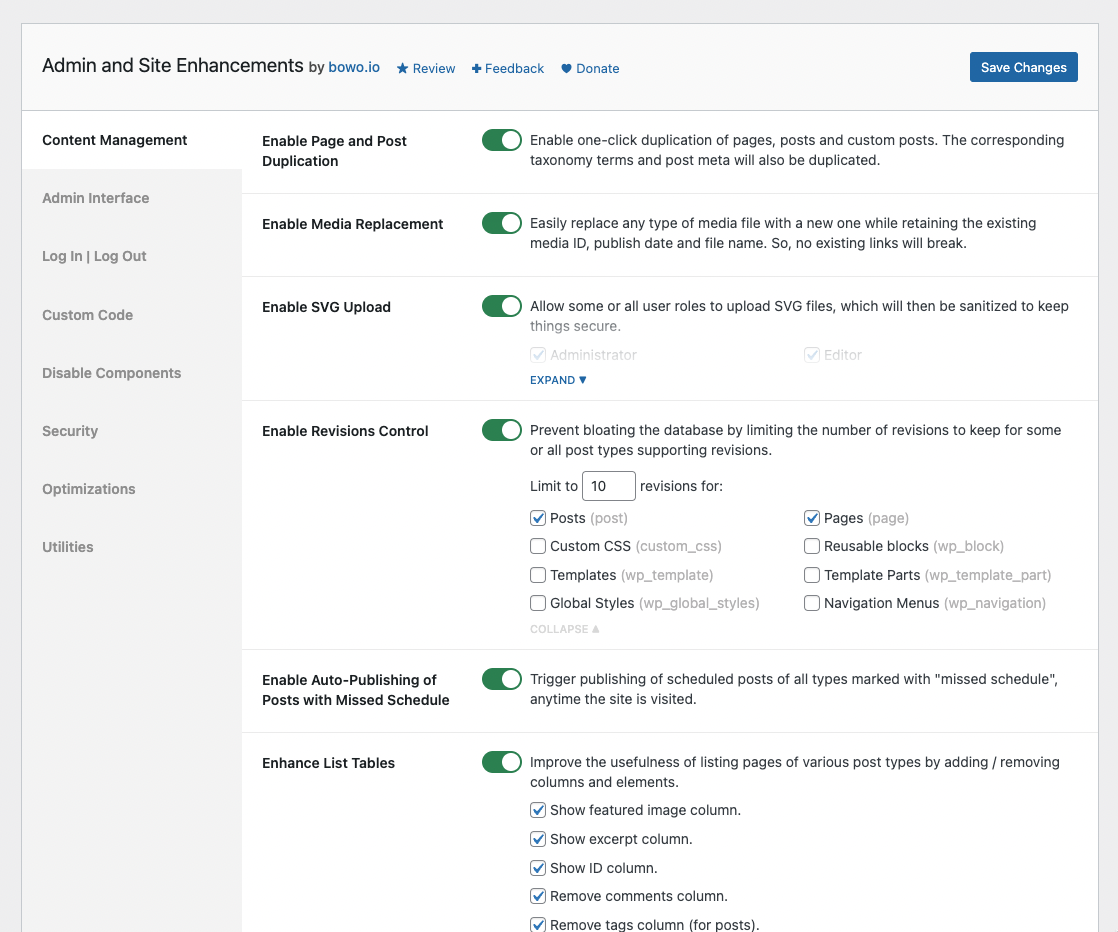
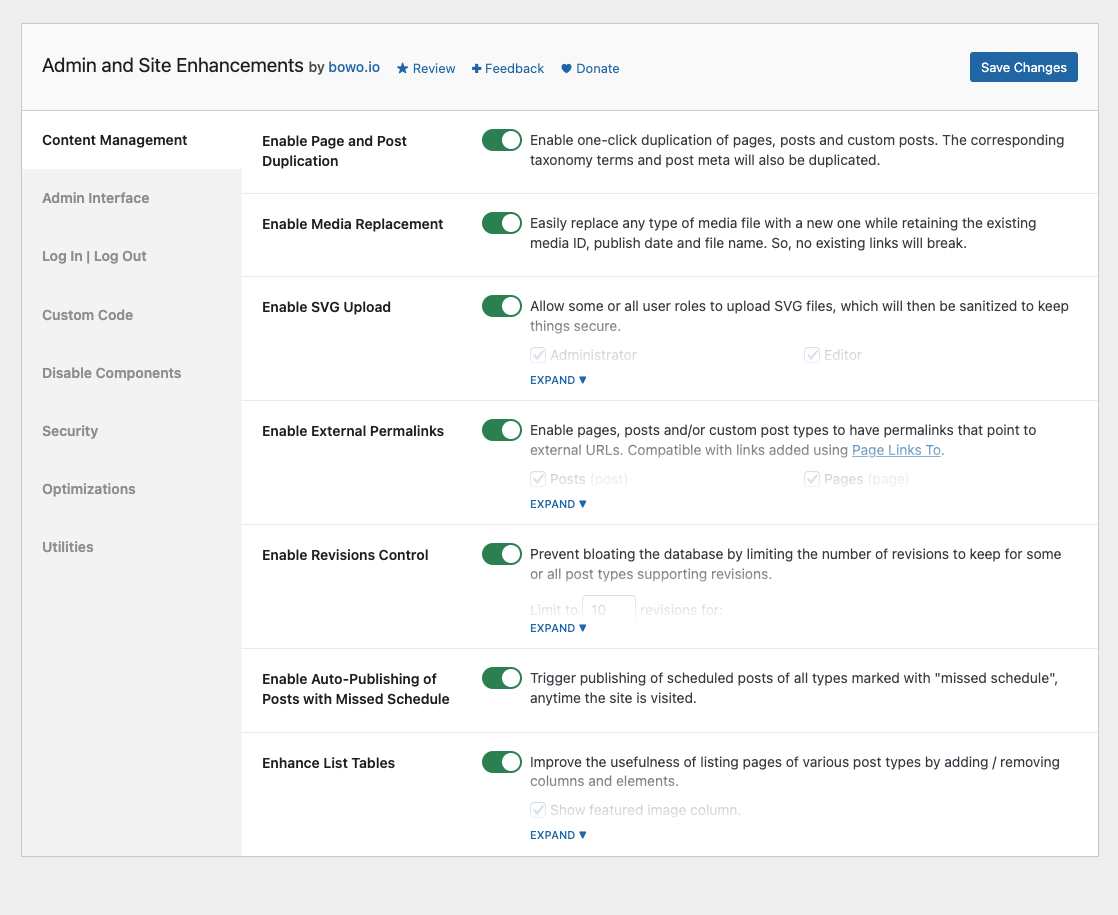
v3.9.0 release

diff --git a/admin-site-enhancements.php b/admin-site-enhancements.php
@@ -4,7 +4,7 @@
  * Plugin Name:       Admin and Site Enhancements
  * Plugin URI:        https://wordpress.org/plugins/admin-site-enhancements/
  * Description:       Easily enable enhancements and features that usually require multiple plugins.
- * Version:           3.8.0
+ * Version:           3.9.0
  * Author:            Bowo
  * Author URI:        https://bowo.io
  * License:           GPL-2.0+
@@ -18,7 +18,7 @@ if ( ! defined( 'ABSPATH' ) ) {
 	exit;
 }
 
-define( 'ASENHA_VERSION', '3.8.0' );
+define( 'ASENHA_VERSION', '3.9.0' );
 define( 'ASENHA_ID', 'asenha' );
 define( 'ASENHA_SLUG', 'admin-site-enhancements' );
 define( 'ASENHA_SLUG_U', 'admin_site_enhancements' );

diff --git a/README.md b/README.md
@@ -5,14 +5,14 @@ Donate link: https://paypal.me/qriouslad
 Tags: enhancements, tweaks, optimizations, tools  
 Requires at least: 4.6  
 Tested up to: 6.1.1  
-Stable tag: 3.8.0  
+Stable tag: 3.9.0  
 Requires PHP: 5.6  
 License: GPLv2 or later  
 License URI: http://www.gnu.org/licenses/gpl-2.0.html
 
 ![](.wordpress-org/banner-772x250.png)
 
-Duplicate page / post, replace media, hide login, hide admin notices, hide admin bar, login / logout / 404 redirect, and more in a single plugin.
+Duplicate post, replace media, admin menu editor, custom css / code, disable gutenberg, heartbeat control and more in a single plugin.
 
 ## Description
 
@@ -23,6 +23,7 @@ Admin and Site Enhancements helps you to easily enhance various admin workflows 
 * **Enable Page and Post Duplication**. Enable one-click duplication of pages, posts and custom posts. The corresponding taxonomy terms and post meta will also be duplicated.
 * **Enable Media Replacement**. Easily replace any type of media file with a new one while retaining the existing media ID, publish date and file name. So, no existing links will break.
 * **Enable SVG Upload**. Allow some or all user roles to upload SVG files, which will then be sanitized to keep things secure.
+* **Enable External Permalinks**. Enable pages, posts and/or custom post types to have permalinks that point to external URLs. Compatible with links added using [Page Links To](https://wordpress.org/plugins/page-links-to/).
 * **Enable Revisions Control**. Prevent bloating the database by limiting the number of revisions to keep for some or all post types supporting revisions.
 * **Enable Auto-Publishing of Posts with Missed Schedule**. Trigger publishing of scheduled posts of all types marked with "missed schedule", anytime the site is visited.
 * **Enhance List Tables**. Improve the usefulness of listing pages of various post types by adding / removing columns and elements.
@@ -58,8 +59,8 @@ Admin and Site Enhancements helps you to easily enhance various admin workflows 
 
 * **Enable Custom Admin CSS**. Add custom CSS on all admin pages for all user roles.
 * **Enable Custom Frontend CSS**. Add custom CSS on all frontend pages for all user roles.
-* **Insert &lt;head&gt;, &lt;body&gt; and &lt;footer&gt; Code**. Easily edit and validate your ads.txt and app-ads.txt content.
-* **Manage ads.txt and app-ads.txt**. Easily insert &lt;meta&gt;, &lt;link&gt;, &lt;script&gt; and &lt;style&gt; tags, Google Analytics, Tag Manager, AdSense, Ads Conversion and Optimize code, Facebook, TikTok and Twitter pixels, etc.
+* **Insert &lt;head&gt;, &lt;body&gt; and &lt;footer&gt; Code**. Easily insert &lt;meta&gt;, &lt;link&gt;, &lt;script&gt; and &lt;style&gt; tags, Google Analytics, Tag Manager, AdSense, Ads Conversion and Optimize code, Facebook, TikTok and Twitter pixels, etc.
+* **Manage ads.txt and app-ads.txt**. Easily edit and validate your ads.txt and app-ads.txt content.
 * **Manage robots.txt**. Easily edit and validate your robots.txt content.
 
 ### Disable Components
@@ -126,6 +127,10 @@ Admin and Site Enhancements will include more enhancements, tweaks and useful fe
 Hoping that this is useful in reducing the number of plugins we install the first time we set up a site.
 
 ## Changelog
+
+### 3.9.0 (2022.12.29)
+
+* **[ADDED] Content Management >> Enable External Permalinks**. Enable pages, posts and/or custom post types to have permalinks that point to external URLs. Compatible with links added using [Page Links To](https://wordpress.org/plugins/page-links-to/).
 
 ### 3.8.0 (2022.12.27)
 
